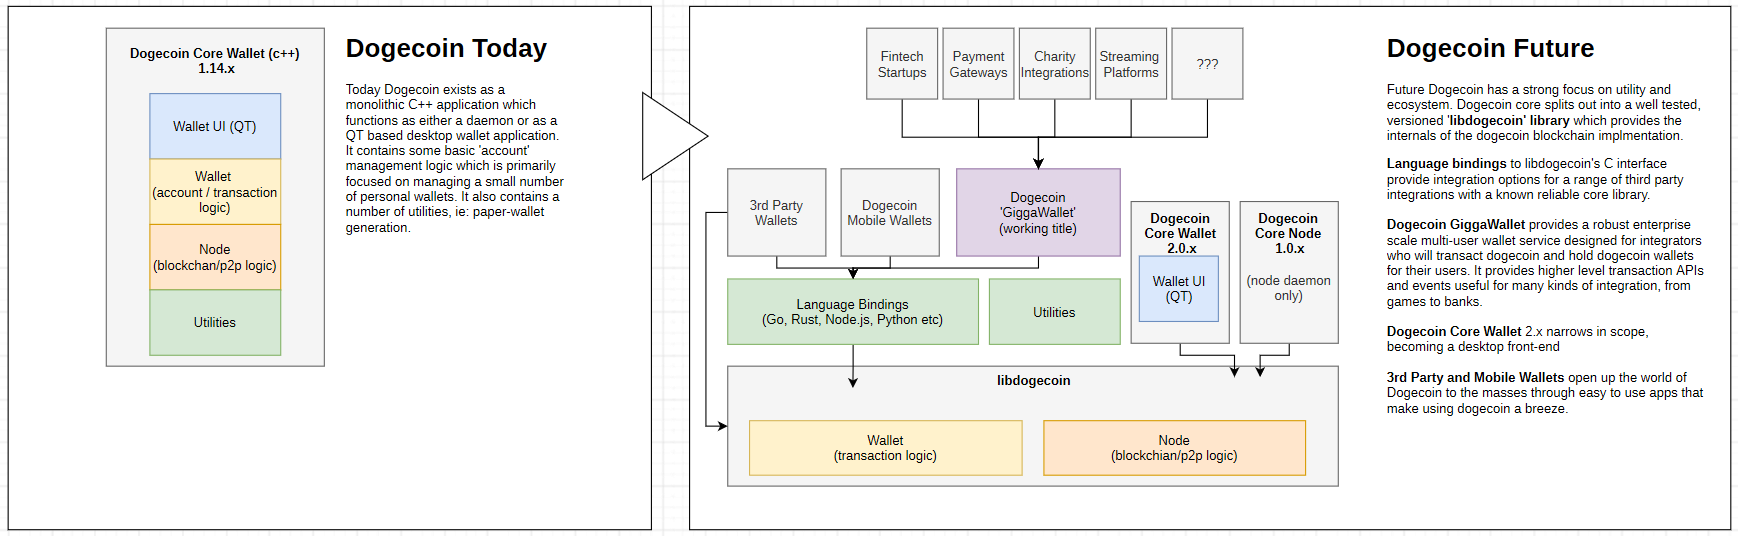
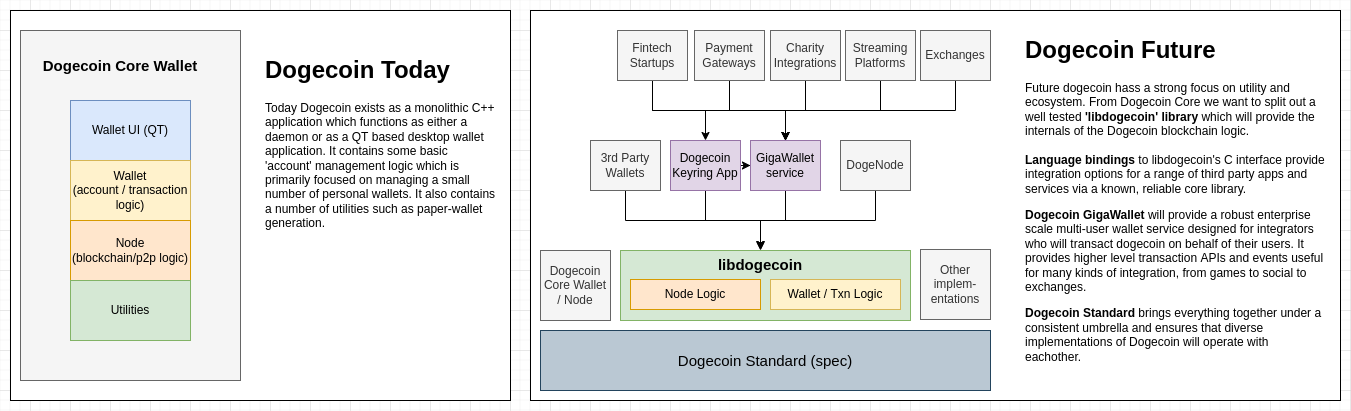
resolved a bunch of typos and re-did the diagrams

diff --git a/content/trailmap/standard.md b/content/trailmap/standard.md
@@ -1,5 +1,5 @@
 +++
-title = "Project: Dogecoin.com makeover & Dogepedia"
+title = "Project: Dogecoin Standard"
 date = "2021-12-10"
 type = "about"
 [ author ]
@@ -47,7 +47,7 @@ name = "Dogecoin Foundation"
 The Dogecoin Standard will be a *Written Specification* and validating *test suite* derived 
 from the Dogecoin Core Wallet during the process of creating [libdogecoin](/trailmap/libdogecoin). 
 The Dogecoin Standard aims to fully document the reference implementation (Core Wallet), filling 
-the gap of the often asked for 'whitepaper' and providing docs to anyone trying to understand how 
+the gap of the often requested 'whitepaper' and providing docs to anyone trying to understand how 
 Dogecoin works.
 
 As we've seen recently with some exchanges, 'getting Dogecoin wallets right' isn't easy and right
@@ -70,18 +70,18 @@ the process of creating the Dogecoin Standard will be the creation of a companio
 that will effectively exercise any implementation of Dogecoin and be able to validate that 
 it is compliant.  
 
-This is a huge accelerator for a diverse Dogecoin ecosystem, when we can make changes to
+This is a huge accelerator for a diverse Dogecoin ecosystem: when we can make changes to
 our node and wallet implementations and validate immediately that they will still work 
 with the ecosystem, everyone moves faster.
 
 ### Community Proposal Process.
 
 For the first time the Dogecoin Protocol will be represented in a way that can be implemented 
-independently of the Core Wallet. This will provide the oportunity for the community to create
+independently of the Core Wallet. This will provide the opportunity for the community to create
 a robust change-process via DIPs (Dogecoin Improvement Proposals) which can be discussed broadly 
 in the community and with key stakeholders for a specified time prior to adoption.  
 
-We believe that a consensus based community (which we have via a decentralised network) should
+We believe that a consensus-based community (which we have via a decentralised network) should
 have a strong preference for experimental implementations that exercise DIPs and demonstrate their 
 effectiveness, similar to the W3C approach for web standards.
 

diff --git a/content/trailmap/prologue.md b/content/trailmap/prologue.md
@@ -68,7 +68,7 @@ Back in August we signed the [Dogecoin Manifesto](/manifesto) and welcomed
 the community to sign it by clicking the tweet button; the response was 
 overwhelmingly positive.  
 
-The Manifesto was our attempt at reducing down everything the community wanted 
+The Manifesto was our attempt at capturing everything the community wanted 
 from the Dogecoin project: a 'Currency of the people, for the people and by the 
 people', something humanity could really use, to buy a coffee or pay the rent.
 
@@ -92,8 +92,8 @@ for people everywhere.
 <img src="/denarius.png" width='50%' style='margin: auto;' alt="Denarius to Dogecoin">
 </div>
 
-There was a time when most of the 'known world' accepted a universal currency, that
-minted by Rome. A **Denarius**, 'about a day's wages' had one thing going for it, you 
+There was a time when most of the 'known world' accepted a universal currency,
+minted by Rome. A **Denarius**, 'about a day's wages' had one thing going for it: you 
 could spend it anywhere in the empire to satisfy your wants or needs, it had **utility**.
 
 A Denarius had no smart contracts, no scriptability, no DAPPs, and yet this coin once 
@@ -147,11 +147,13 @@ gives back to the whole community through charitable causes.
 As you can imagine, setting off on such an adventure is not a small feat and 
 we are still just getting started. We already have some influential friends
 on our side and a growing group of people who are getting ready to contribute
-development time to these Open Source projects. 
+development time to these open-source projects. 
 
 Over the next few months the Libdogecoin and GigaWallet projects will begin
 to take shape, and we have some early integrators who are interested in putting
-them to use in their projects.  
+them to use in their projects. These early projects are about laying a solid 
+foundation, while projects still to come will target improving transaction 
+throughput and scale. 
 
 Expect to see more of the projects on the Trailmap unlock with their own details,
 Git repositories and issues as they are refined and commence work into 2022. 

diff --git a/content/trailmap/gigawallet.md b/content/trailmap/gigawallet.md
@@ -1,5 +1,5 @@
 +++
-title = "Project: Dogecoin.com makeover & Dogepedia"
+title = "Project: GigaWallet" 
 date = "2021-12-10"
 type = "about"
 [ author ]
@@ -57,20 +57,20 @@ service that any platform, exchange or retailer can run on their own infrastruct
 that provides a modern non-custodial approach to processing Dogecoin transactions.
 
 The GigaWallet project is an open-source initiative aimed at filling that gap by
-providing a node / api solution that can be set up in seconds and allow a developer
+providing a node / API solution that can be set up in seconds and allow a developer
 to add Dogecoin transactions to their platform, as easily as they might with any
 polished payment provider.
 
-The GigaWallet aims to provide two levels of API, one for processing and validating
+The GigaWallet aims to provide two levels of API, the first for processing and validating
 traditional Dogecoin transactions, with a modern event-architecture ready to connect
 with message queues and web APIs. The second will be APIs to integrate with the
-proposed Dogecoin Keyring App & SDK, this is a mobile-first solution that will allow
+proposed Dogecoin Keyring App & SDK. This is a mobile-first solution that will allow
 platforms that use the GigaWallet to issue charges directly from their Apps to the 
 Dogecoin Keyring App for approval by the user. This is important because it puts 
 the ownership of keys back in the hands of the user, without removing a platform's 
 ability to transact Dogecoin.
 
-We believe that providing both halves of the solution as an opensource project, 
+We believe that providing both halves of the solution as an open-source project, 
 backend as well as ready-to-integrate mobile SDK for making Dogecoin payments, will
 rapidly accelerate the uptake of Dogecoin by retailers, social media platforms, 
 game developers and more. 

diff --git a/content/trailmap/libdogecoin.md b/content/trailmap/libdogecoin.md
@@ -1,5 +1,5 @@
 +++
-title = "Project: Dogecoin.com makeover & Dogepedia"
+title = "Project: Libdogecoin"
 date = "2021-12-10"
 type = "about"
 [ author ]
@@ -50,7 +50,7 @@ allow anyone to build a Dogecoin compliant product, without needing to
 worry about the deeper specifics of the crypto functions.  
 
 It’s important to note that libdogecoin will be a pure library, not 
-providing a ‘runnable’ node facility, it is intended that connecting 
+providing a ‘runnable’ node facility. It is intended that connecting 
 the bits together into an engine be done at the level above, via the 
 networking libraries of the host language.  
 
@@ -74,7 +74,7 @@ available as a simple C library with bindings for many languages, we multiply
 the community's ability to innovate. 
 
 * Want to create a new Dogecoin Wallet in Python? Ruby? Node.js? Do it!
-* Want to create a slimmed down Dogecoin node for a specific purpose (like [GigaWallet](/trailmap/gigawallet))? sure!
+* Want to create a slimmed down Dogecoin node for a specific purpose (like [GigaWallet](/trailmap/gigawallet))? Sure!
 * Want to create a shell utility for managing HD Dogecoin keypairs in Golang? Go nuts! 
 
 We're aiming to make the Dogecoin Ecosystem healthier as we:
@@ -87,7 +87,7 @@ We're aiming to make the Dogecoin Ecosystem healthier as we:
 <img class='center' src="/libdogecoin-purpose.png">
 
 These objectives are met primarily through the librarification of Dogecoin and validated by a 
-[Dogecoin Standard](/trialmap/standard) which will allow the community to have confidence in 
+[Dogecoin Standard](/trailmap/standard) which will allow the community to have confidence in 
 diverse implementations of Dogecoin Nodes and Wallets.   
 
 Libdogecoin is the underlying building block in the Foundation's plan to make this happen.

diff --git a/content/trailmap/website.md b/content/trailmap/website.md
@@ -46,8 +46,8 @@ name = "Dogecoin Foundation"
 
 Volunteers from the Doge Army have come together from all over the 
 world to work on a re-design of the Dogecoin.com website. Bluezr, CB & 
-Florian along with the amaze Hackclub teens Belle, Ella & Sam have been
-building out a whole new site which has a stack of new information, 
+Florian along with the amaze Hack Club teens Belle, Ella & Sam have been
+building out a whole new site which has a stack of new information: 
 from links to current projects and teams, to information on the network 
 and how you can get involved as a coder, a miner, a HODLr or a fan!
 
@@ -64,7 +64,7 @@ it!
 
 ## When Moon?
 
-Expect to see a preview up in early Jan for community feedback and 
+Expect to see a preview up in January for community feedback and 
 if all is well, a shiny new website shortly after. Wow! 
 
 </section>
